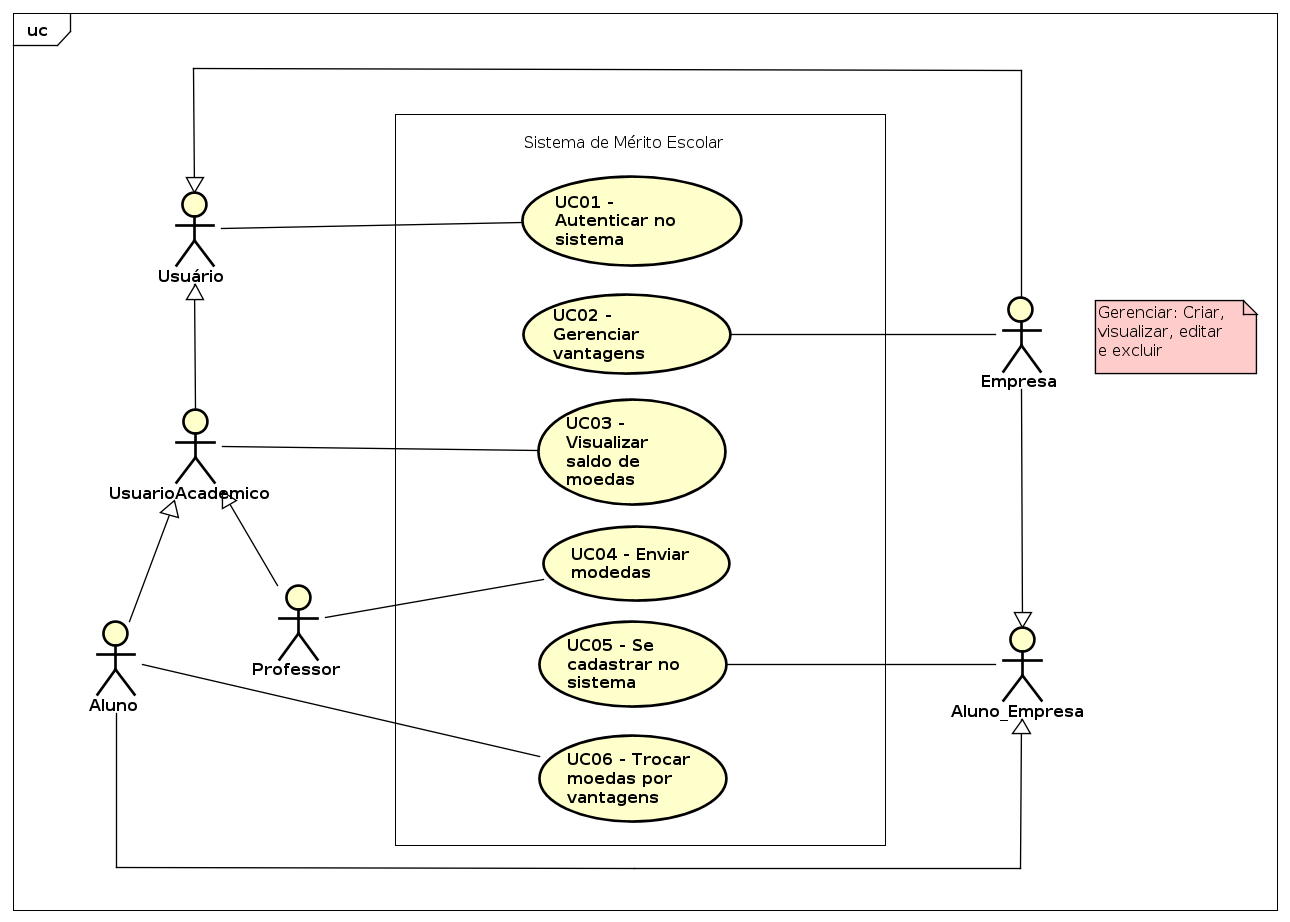
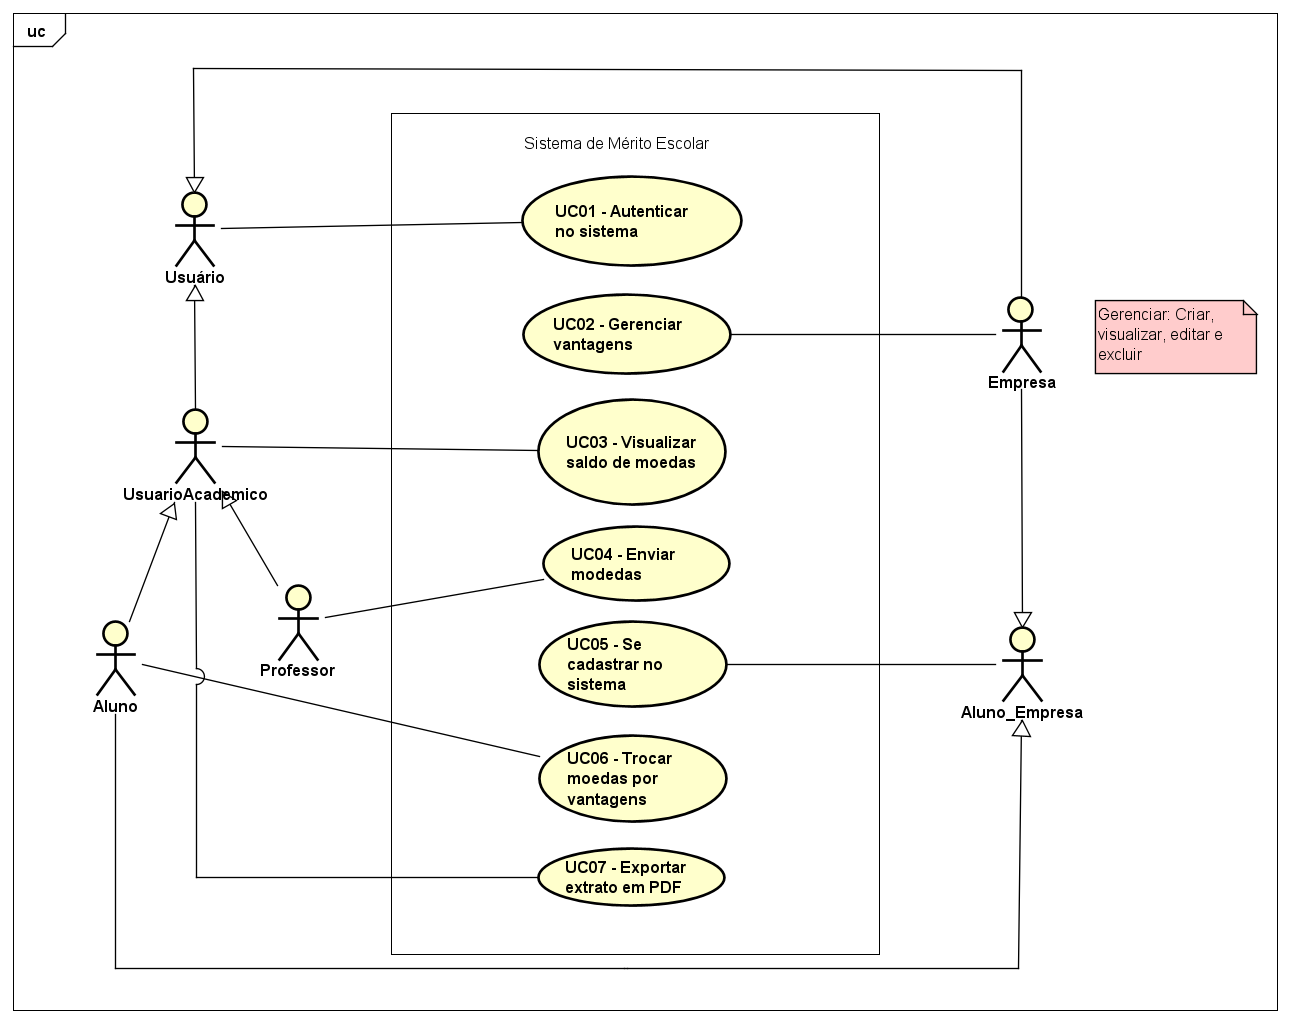
adicionando caso de uso 7 - Exportação de PDF

diff --git a/implementacao/front/src/features/Home/pages/Extrato.component.tsx b/implementacao/front/src/features/Home/pages/Extrato.component.tsx
@@ -25,7 +25,7 @@ export const Extrato = () => {
     refetchOnWindowFocus: false,
   });
 
-  const onClickGenerateReport = async (): Promise<void> => {
+  const onClickGenerateReport = (): void => {
     const doc = new jsPDF();
 
     const lineY = 20;

diff --git a/README.md b/README.md
@@ -14,11 +14,12 @@
   - [Diagrama de Sequência do Sistema - UC04](./projeto/DSS/diagrama_sequencia_sistema_uc04.png)
   - [Diagrama de Sequência do Sistema - UC05](./projeto/DSS/diagrama_sequencia_sistema_uc05.png)
   - [Diagrama de Sequência do Sistema - UC06](./projeto/DSS/diagrama_sequencia_sistema_uc06.png)
+  - [Diagrama de Sequência do Sistema - UC07](./projeto/DSS/diagrama_sequencia_sistema_uc07.png)
 - [Diagramas de Sequência](./projeto/DS)
   - [Diagramas de Sequência - CRUD Aluno](./projeto/DS/diagrama_de_sequencia_crud_aluno.png)
   - [Diagramas de Sequência - CRUD Empresa](./projeto/DS/diagrama_de_sequencia_crud_empresa.png)
   - [Diagramas de Sequência - CRUD Vantagem](./projeto/DS/diagrama_de_sequencia_crud_vantagem.png)
-  - [Diagrama de Sequência - UC03](./projeto/DS/diagrama_de_sequencia_uc03.png)
+  - [Diagrama de Sequência - UC03 e UC07](./projeto/DS/diagrama_de_sequencia_uc03_uc07.png)
   - [Diagrama de Sequência - UC04](./projeto/DS/diagrama_de_sequencia_uc04.png)
   - [Diagrama de Sequência - UC06](./projeto/DS/diagrama_de_sequencia_uc06.png)
 - [Modelo Entidade Relacionamento](./projeto/modelo_er.md)

diff --git a/projeto/estorias_usuario.md b/projeto/estorias_usuario.md
@@ -7,3 +7,5 @@
 - US07 - Como aluno, quero trocar minhas moedas por vantagens cadastradas no sistema, para poder aproveitar os benefícios do programa de reconhecimento.
 - US08 - Como empresa parceira, quero cadastrar vantagens no sistema de mérito, para poderem ser resgatadas por alunos.
 - US09 - Como usuário, eu quero poder autenticar-me no sistema, fornecendo um nome de usuário e senha válidos, para ter acesso às funcionalidades disponíveis e garantir a segurança dos dados.
+- US10 - Como aluno, quero poder exportar meu extrato contendo as minhas transações e saldo, para poder analisar melhor o uso das moedas.
+- US11 - Como professor, quero poder exportar meu extrato contendo as minhas transações e saldo, para poder analisar melhor o uso das moedas.
